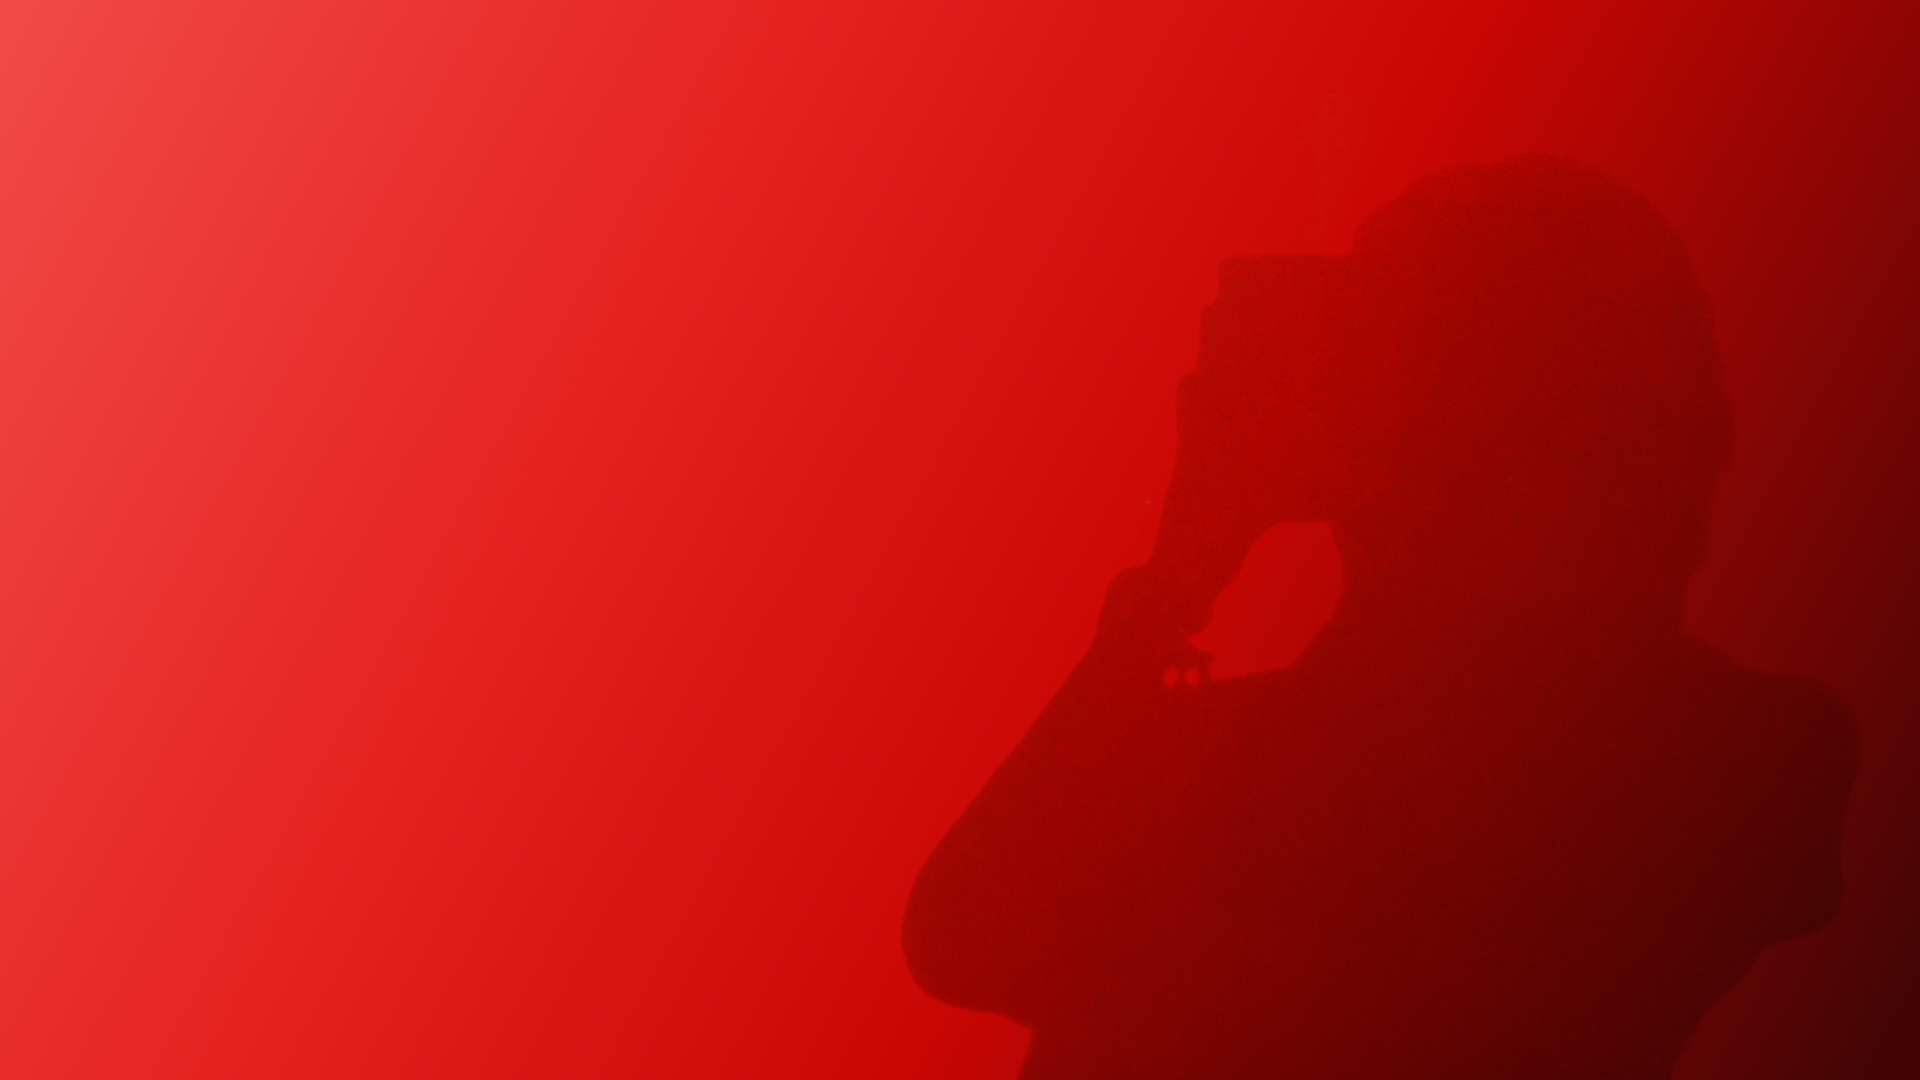
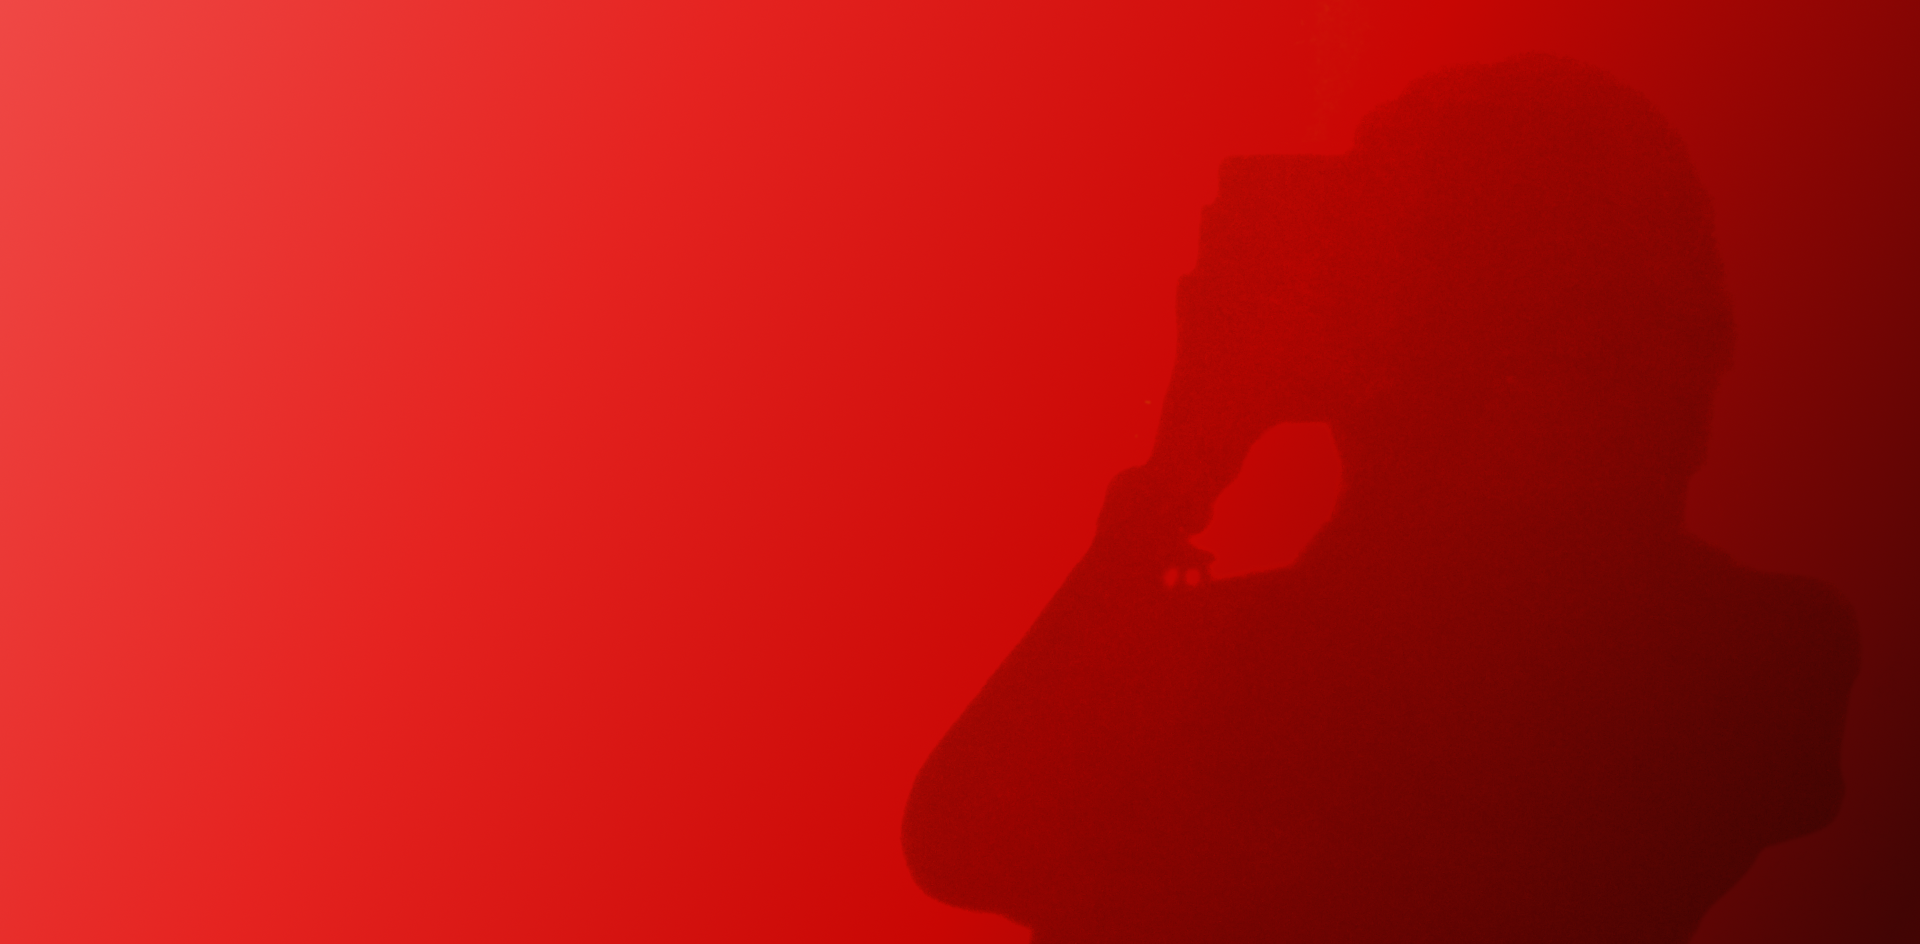
correcciones en portafolio

diff --git a/docs/index.html b/docs/index.html
@@ -69,23 +69,13 @@
   <main class="container-fluid main-container mb-5">
     <div class="row m-auto p-4 p-md-5 mb-4 rounded bg-img bg-img-inicio" id="Inicio">
       <div class="col-md-7 px-0 text-white">
-        <h1 class="mt-5 display-4 fst-italic text-rubik-bold shadow-text-orange">Hola, soy Elizabeth, diseñadora web y diseñadora UI/UX.
-        </h1>
-        <p class="lead my-3 subtitle shadow-text-orange">Me gusta generar estrategias visuales que ayuden a mejorar la
-          comunicación
-          entre el usuario y el producto digital, partiendo desde una perspectiva ecléctica y empática. </p>
+        <h1 class="mt-5 display-4 fst-italic text-rubik-bold shadow-text-orange">
+          Hola, soy Elizabeth,<br>
+          diseñadora web y <br> diseñadora UI/UX</h1>
         <div class="btn-group btn-group-lg d-grid gap-2 d-md-block mb-5" role="group" aria-label="Default button group">
           <a href="https://www.linkedin.com/in/eli-triniguerrero/" target="_blank" class="btn btn-outline-light"
             title="Perfil Linkedin">
             <i class="fab fa-linkedin-in"></i> Linkedin
-          </a>
-          <a href="https://github.com/eli-triniguerrero" target="_blank" class="btn btn-outline-light"
-            title="Perfil Github">
-            <i class="fab fa-github-alt"></i> Github
-          </a>
-          <a href="https://platzi.com/p/eli_triniguerrero/" target="_blank" class="btn btn-outline-light"
-            title="Perfil platzi">
-            <i class="fa-solid fa-user-astronaut"></i> Platzi
           </a>
           <a href="https://www.instagram.com/ely_bookzinea/" target="_blank" class="btn btn-outline-light"
             title="Perfil Instagram">
@@ -95,19 +85,21 @@
         <!-- <p class="lead mb-0"><a href="#" class="text-info fw-bold">Ver CV</a></p> -->
       </div>
       <div class="col-md-5 text-center m-auto">
-        <img src="assets/imgs/setg-logo_blanco.png" alt="logotipo" width="70%" class="">
+        <img src="assets/imgs/setg-logo_blanco.png" alt="logotipo" width="50%" class="">
       </div>
     </div>
 
     <div class="row m-auto " id="Sobremi">
       <div class="col-md-4 rounded bg-img bg-img-quiensoy">
         <h2 class="mt-5 st-italic text-white text-rubik-bold shadow-text-purple">Sobre mí</h1>
-          <!-- <img src="assets/imgs/img_perfil_setg.png" class="rounded mx-auto d-block" alt="..." width="200"> -->
-          <div class="ml-5 mr-5 lead text-white">Siempre curiosa por el mundo tecnológico,
+          <div class="mx-auto my-auto lead text-white">
+            Me gusta generar estrategias visuales que ayuden a mejorar la
+          comunicación
+          entre el usuario y el producto digital, desde una perspectiva ecléctica y empática. 
+          </div>
+          <div class="mb-5 lead text-white">Siempre curiosa por el mundo tecnológico,
             me encanta el arte, disfruto mucho aprender y adaptarme al ritmo de la incertidumbre y
             los nuevos retos.</div>
-          <a href="assets/cv/CV_ElizabethTrinidad_SETG.pdf" target="_blank" class="btn btn-info btn-lg mb-5 mt-2">
-            <i class="fa-solid fa-file-arrow-down"></i> Ver CV</a>
       </div>
       <div class="col-md-8 mt-4">
         <div class="row">
@@ -123,12 +115,16 @@
                 <p>Illustrator, Indesign, Photoshop</p>
               </li>
               <li>
-                <span class="fw-bold">HTML, CSS, Bootstrap</span>
-                <p>Maquetación web</p>
+                <span class="fw-bold">HTML, CSS, Bootstrap, Git</span>
+                <p>Maquetación web, manejo de repositorios</p>
               </li>
               <li>
-                <span class="fw-bold">Git</span>
-                <p>Github, Gitlab</p>
+                <span class="fw-bold">Trabajar por objetivos</span>
+                <p>Metodología Scrum, Jira, sprints</p>
+              </li>
+              <li>
+                <span class="fw-bold">Metodologías UX</span>
+                <p>Design thinking, diseño centrado en el usuario</p>
               </li>
             </ul>
           </div>
@@ -148,13 +144,23 @@
                 Capacidad adaptativa
               </li>
               <li class="mb-4">
-                Autoaprendizaje
+                Autoaprendizaje y disciplina
               </li>
           </div>
         </div>
       </div>
     </div>
-
+    <div class="row m-5">
+      <div class="col-md-12 text-center">
+        <blockquote>
+          <p> El diseño es realmente un acto de comunicación, lo que significa
+            tener un profundo conocimiento de la persona con la que el diseñador
+            se está comunicando</p>
+          <br>
+          <cite>Donald A. Norman, libro The Design of Everyday Things</cite>
+        </blockquote>
+      </div>
+    </div>
     <div class="row m-auto row-cols-1 row-cols-md-1 g-4" id="Proyectos">
       <div class="col-md-12 mb-2">
         <h2 class="st-italic display-3 text-rubik-bold text-center">Proyectos</h1>
@@ -235,17 +241,6 @@
 
     </div>
   </main>
-  <div class="row m-5">
-    <div class="col-md-12 text-center">
-      <blockquote>
-        <p> El diseño es realmente un acto de comunicación, lo que significa
-          tener un profundo conocimiento de la persona con la que el diseñador
-          se está comunicando</p>
-        <br>
-        <cite>Donald A. Norman, libro The Design of Everyday Things</cite>
-      </blockquote>
-    </div>
-  </div>
   <div class="container">
     <footer class="py-3 my-4">
       <ul class="nav justify-content-center border-bottom pb-3 mb-3">

diff --git a/docs/assets/styles.css b/docs/assets/styles.css
@@ -89,7 +89,7 @@ body {
 }
 .bg-img {
     background-size:cover;
-    background-attachment: fixed;
+    background-attachment:scroll;
     background-repeat: no-repeat;
     background-position: top;
 }
@@ -100,6 +100,7 @@ body {
 }
 .bg-img-quiensoy {
   background-image: url('imgs/bg_purple_degrade_01.png');
+  background-position: top left !important;
 }
 .bg-img-proyectos {
   background-image: url('imgs/bg_aqua_degrade_01.png');
